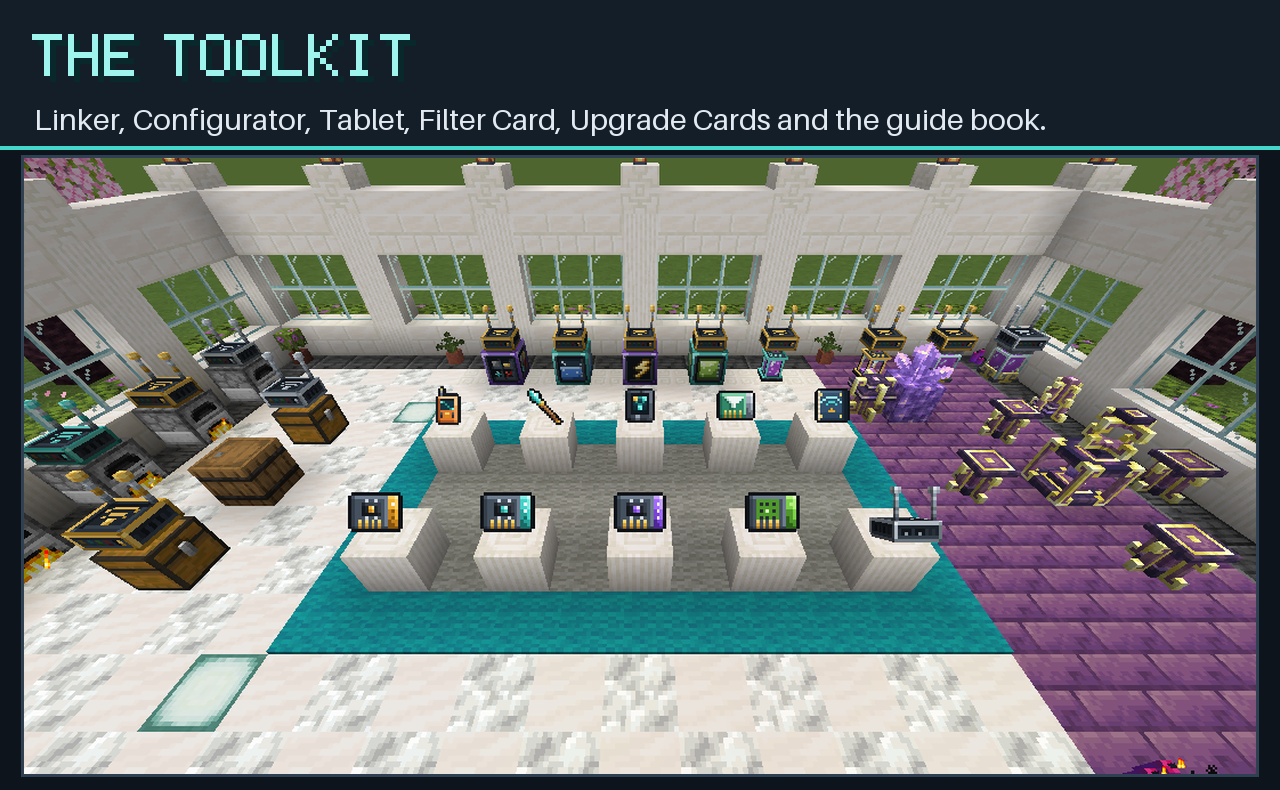
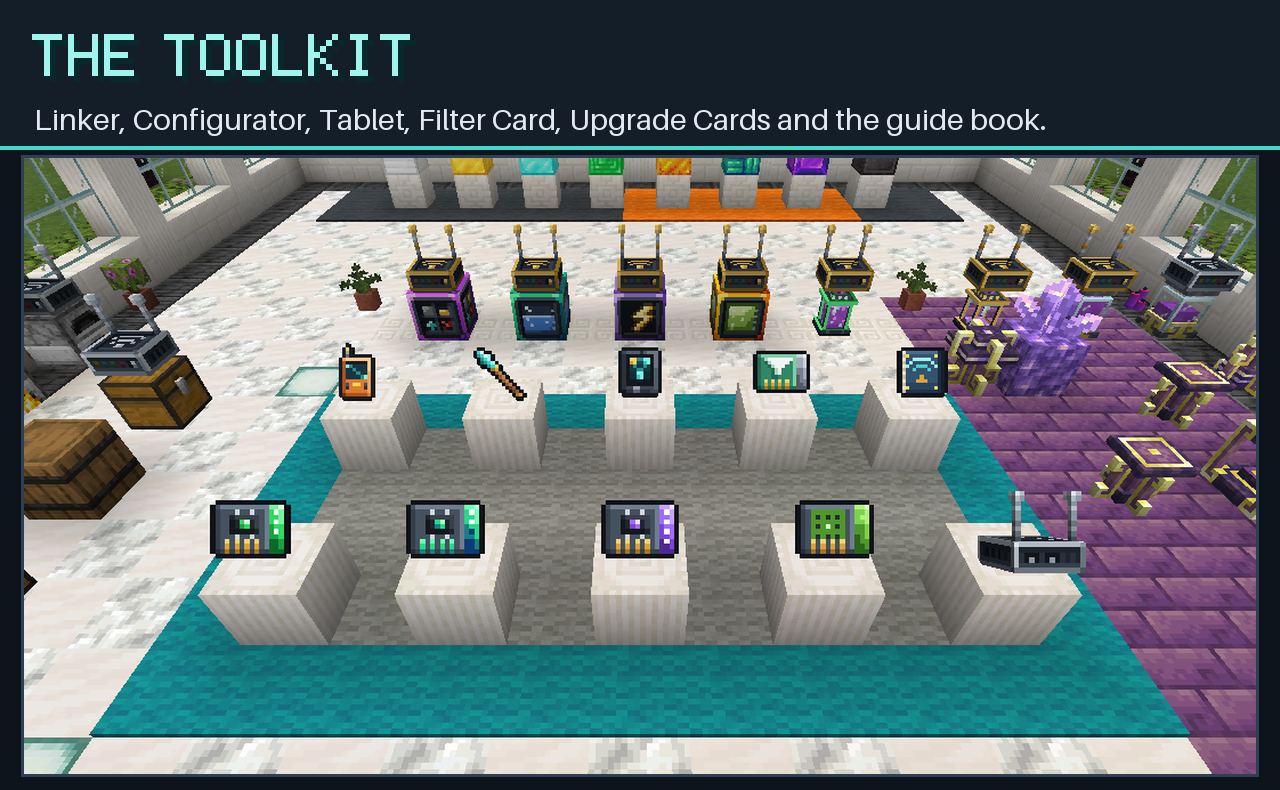
Vitrine do CurseForge com os tiers novos
- Casa maior para o norte, com o salão dos tiers: os oito roteadores
  sobre o bloco do material de cada tier e o cartão flutuando em cima.
- Fornalhas do Básico ao Allthemodium, galeria dos armazenamentos em
  tiers variados (Baú Unobtainium, Tanque Vibranium...), Tanques de
  Source em Elite, Esmeralda, Vibranium e Ultimate, e a vitrine com os
  cartões novos. Sem o Allthemodium, os tiers dele caem para substitutos.
- Imagens refeitas e a nova feature-15-tier-hall; a descrição marca com
  ENVIAR: as que mudaram, até o upload.

diff --git a/src/main/java/io/github/matheusanbs/wirelessautomate/client/DevEndToEnd.java b/src/main/java/io/github/matheusanbs/wirelessautomate/client/DevEndToEnd.java
@@ -1101,16 +1101,23 @@ public final class DevEndToEnd {
     private static BlockPos showSourceJar;
     private static final List<BlockPos> showTanks = new ArrayList<>();
 
-    /** Metade da largura da casa (paredes em x = ±12) e as paredes norte e sul. */
+    /** Metade da largura da casa (paredes em x = ±12) e as paredes norte e sul (o salão dos tiers no fundo). */
     private static final int HOUSE_X = 12;
-    private static final int HOUSE_NORTH = -18;
+    private static final int HOUSE_NORTH = -27;
+    /** Linha do salão dos tiers: os oito roteadores em x = -7..7, cada um sobre o bloco do seu material. */
+    private static final int TIER_HALL_Z = -24;
+
+    /** O tier do Allthemodium se o mod está no cliente de dev, senão o substituto (a vitrine roda sem ele também). */
+    private static RouterTier atm(RouterTier tier, RouterTier fallback) {
+        return tier.loaded() ? tier : fallback;
+    }
     private static final int HOUSE_SOUTH = -2;
 
     /**
      * Fotos da página do CurseForge, numa casa de quartzo sem teto, de dia: a linha de fornalhas
      * (oeste), a galeria dos cinco armazenamentos com fluxo de verdade para um cofre sob o piso
-     * (norte), a vitrine dos itens do mod em pedestais (centro) e o laboratório do Ars Nouveau com
-     * os quatro tiers do Tanque de Source (leste). Fotografa a casa inteira, cada ala e as telas. As
+     * (centro-norte), o salão dos oito tiers (fundo), a vitrine dos itens do mod em pedestais (centro)
+     * e o laboratório do Ars Nouveau com quatro tiers do Tanque de Source (leste). Fotografa a casa inteira, cada ala e as telas. As
      * imagens finais saem de scripts/curseforge/gerar_imagens.py.
      */
     private static List<Step> showcase() {
@@ -1120,7 +1127,7 @@ public final class DevEndToEnd {
                         && showRouters.stream().allMatch(DevEndToEnd::clientSees),
                 () -> showRouters.size() + " roteadores"));
         // A casa inteira, de cima, vista do jardim.
-        list.add(showLook("câmera na casa", 0, 11, 1.5, 0, 0, -10.5, false));
+        list.add(showLook("câmera na casa", 0, 17, 4.5, 0, 0, -14.5, false));
         list.add(wait("chunks e itens", 100));
         list.add(capture("s0-casa"));
         // A linha de fornalhas, da ala oeste.
@@ -1224,6 +1231,10 @@ public final class DevEndToEnd {
                 return null;
             });
         }, () -> Minecraft.getInstance().player.getInventory().isEmpty(), () -> "inventário"));
+        // O salão dos tiers, visto de trás da galeria dos armazenamentos.
+        list.add(showLook("câmera no salão dos tiers", 0, 1.1, -16.9, 0, 2.3, -24, false));
+        list.add(wait("salão dos tiers", 20));
+        list.add(capture("s15-tiers"));
         // A vitrine dos itens, de perto.
         list.add(showLook("câmera na vitrine", 0, 4.2, -5, 0, 0.8, -10.5, false));
         list.add(wait("vitrine", 20));
@@ -1371,6 +1382,7 @@ public final class DevEndToEnd {
             showcaseSmelting(server, level, smelting.id());
             showcaseStorage(server, level, storage.id());
             showcaseDisplay(server);
+            showcaseTiers(server, level, data.create(player.getUUID(), "Tier Hall").id());
             if (StorageKind.SOURCE_TANK.loaded()) {
                 showcaseArcane(server, level, arcane.id());
             }
@@ -1415,7 +1427,7 @@ public final class DevEndToEnd {
             put(level, post[0], 1, post[1], Blocks.POLISHED_DEEPSLATE_WALL.defaultBlockState());
             put(level, post[0], 2, post[1], Blocks.LANTERN.defaultBlockState());
         }
-        for (int[] tree : new int[][] {{-17, -4}, {17, -4}, {-17, -16}, {17, -16}}) {
+        for (int[] tree : new int[][] {{-17, -4}, {17, -4}, {-17, -15}, {17, -15}, {-17, -26}, {17, -26}}) {
             cherryTree(level, tree[0], tree[1]);
         }
         net.minecraft.world.level.block.Block[] flowers = {Blocks.ALLIUM, Blocks.OXEYE_DAISY, Blocks.CORNFLOWER,
@@ -1559,11 +1571,12 @@ public final class DevEndToEnd {
     }
 
     /**
-     * Ala oeste: cinco fornalhas acesas contra a parede, uma por tier (a do meio repete o Elite), com
+     * Ala oeste: cinco fornalhas acesas contra a parede, cada uma com um tier (Básico ao Allthemodium), com
      * filtro de minérios e carvão, o baú de entrada cheio, um barril e o baú de saída.
      */
     private static void showcaseSmelting(MinecraftServer server, ServerLevel level, UUID network) {
-        String[] tiers = {"basic", "advanced", "elite", "ultimate", "elite"};
+        String[] tiers = {"basic", "advanced", "elite", "emerald",
+                atm(RouterTier.ALLTHEMODIUM, RouterTier.ULTIMATE).getSerializedName()};
         Filter ores = new Filter(Filter.ListMode.WHITELIST, false, List.of(
                 new FilterEntry.TagEntry(ResourceLocation.parse("c:ores"), 0),
                 new FilterEntry.ItemEntry(new ItemStack(Items.RAW_IRON), 0),
@@ -1599,14 +1612,15 @@ public final class DevEndToEnd {
     }
 
     /**
-     * Ala norte: os armazenamentos do mod numa galeria (Baú Ultimate com dezenas de tipos e milhões de
+     * Ala norte: os armazenamentos do mod numa galeria, em tiers variados (Baú Unobtainium com dezenas de tipos e milhões de
      * itens, Tanque, Bateria, Tanque Químico com o Mekanism e Tanque de Source com o Ars), cada um com
      * um roteador Avançado que tira para um igual Ultimate sob o piso: o fluxo dura a sessão inteira e
      * dá números de verdade ao Tablet.
      */
     private static void showcaseStorage(MinecraftServer server, ServerLevel level, UUID network) {
         StorageKind[] kinds = StorageKind.values();
-        RouterTier[] tiers = {RouterTier.ULTIMATE, RouterTier.EMERALD, RouterTier.ULTIMATE, RouterTier.EMERALD, RouterTier.EMERALD};
+        RouterTier[] tiers = {atm(RouterTier.UNOBTAINIUM, RouterTier.ULTIMATE), atm(RouterTier.VIBRANIUM, RouterTier.EMERALD),
+                RouterTier.ULTIMATE, atm(RouterTier.ALLTHEMODIUM, RouterTier.EMERALD), RouterTier.EMERALD};
         String[] names = {"Main Storage", "Water Tank", "Base Battery", "Hydrogen", "Source Reserve"};
         for (int i = 0; i < kinds.length; i++) {
             if (!kinds[i].loaded()) {
@@ -1667,7 +1681,9 @@ public final class DevEndToEnd {
                 {"{id:\"wirelessautomate:linker\",count:1}", "{id:\"wirelessautomate:configurator\",count:1}",
                         "{id:\"wirelessautomate:network_tablet\",count:1}", "{id:\"wirelessautomate:filter_card\",count:1}",
                         guide},
-                {"{id:\"wirelessautomate:tier_core_advanced\",count:1}", "{id:\"wirelessautomate:tier_core_elite\",count:1}",
+                {"{id:\"wirelessautomate:tier_core_emerald\",count:1}",
+                        "{id:\"wirelessautomate:tier_core_" + atm(RouterTier.VIBRANIUM, RouterTier.ELITE).getSerializedName()
+                                + "\",count:1}",
                         "{id:\"wirelessautomate:tier_core_ultimate\",count:1}",
                         "{id:\"wirelessautomate:chunk_loader_upgrade\",count:1}", "{id:\"wirelessautomate:router\",count:1}"}};
         int[] zs = {-12, -9};
@@ -1684,9 +1700,50 @@ public final class DevEndToEnd {
     }
 
     /**
+     * Fundo da casa: o salão dos tiers. Os oito roteadores em fila (Básico à esquerda), cada um sobre um
+     * pedestal com o bloco do material do tier (ferro, ouro, diamante, esmeralda, os três metais do
+     * Allthemodium e netherita) e o Cartão de Upgrade flutuando em cima; tapete laranja sob os do ATM.
+     * Sem o Allthemodium, os três do meio ficam de fora.
+     */
+    private static void showcaseTiers(MinecraftServer server, ServerLevel level, UUID network) {
+        String[] materials = {"minecraft:iron_block", "minecraft:gold_block", "minecraft:diamond_block",
+                "minecraft:emerald_block", "allthemodium:allthemodium_block", "allthemodium:vibranium_block",
+                "allthemodium:unobtainium_block", "minecraft:netherite_block"};
+        String[] names = {"Basic", "Advanced", "Elite", "Emerald", "Allthemodium", "Vibranium", "Unobtainium", "Ultimate"};
+        RouterTier[] tiers = RouterTier.values();
+        for (int x = -9; x <= 9; x++) {
+            for (int z = TIER_HALL_Z - 1; z <= TIER_HALL_Z + 1; z++) {
+                boolean atmBand = x >= 0 && x <= 6 && tiers[4].loaded();
+                put(level, x, 0, z, (atmBand ? Blocks.ORANGE_CARPET : Blocks.GRAY_CARPET).defaultBlockState());
+            }
+        }
+        for (int i = 0; i < tiers.length; i++) {
+            if (!tiers[i].loaded()) {
+                continue;
+            }
+            int x = -7 + 2 * i;
+            put(level, x, 0, TIER_HALL_Z, Blocks.CHISELED_QUARTZ_BLOCK.defaultBlockState());
+            command(server, "setblock " + at(x, 1, TIER_HALL_Z) + " " + materials[i]);
+            BlockPos block = showBase.offset(x, 1, TIER_HALL_Z);
+            placeShowRouter(server, level, block, tiers[i].getSerializedName(), names[i] + " Router", network);
+            if (ModItems.TIER_CORES.containsKey(tiers[i])) {
+                command(server, String.format(java.util.Locale.ROOT,
+                        "summon minecraft:item_display %.2f %.2f %.2f {item:{id:\"wirelessautomate:tier_core_%s\",count:1},"
+                                + "billboard:\"center\",brightness:{sky:15,block:15},transformation:{left_rotation:[0f,0f,0f,1f],"
+                                + "right_rotation:[0f,0f,0f,1f],translation:[0f,0f,0f],scale:[0.7f,0.7f,0.7f]}}",
+                        block.getX() + 0.5, block.getY() + 2.5, block.getZ() + 0.5, tiers[i].getSerializedName()));
+            }
+        }
+        // Lanternas no piso nas pontas da fila.
+        for (int x : new int[] {-9, 9}) {
+            put(level, x, -1, TIER_HALL_Z, Blocks.SEA_LANTERN.defaultBlockState());
+        }
+    }
+
+    /**
      * Ala leste, com o Ars: piso de pedra de Source, um Enchanting Apparatus com quatro pedestais,
      * Sourcelinks, uma Source Jar criativa cujo roteador manda a Source sem fio para um Tanque de
-     * Source e uma Source Jar, e os quatro tiers do Tanque de Source (vazio, 25%, 60% e cheio) junto à
+     * Source e uma Source Jar, e quatro tiers do Tanque de Source (vazio, 30%, 60% e cheio) junto à
      * parede sul.
      */
     private static void showcaseArcane(MinecraftServer server, ServerLevel level, UUID network) {
@@ -1720,9 +1777,14 @@ public final class DevEndToEnd {
         router(server, showSourceJar.above()).setMode(ResourceType.SOURCE, Direction.UP, PortMode.EXTRACT);
         router(server, tank.above()).setMode(ResourceType.SOURCE, Direction.UP, PortMode.INSERT);
         router(server, jar.above()).setMode(ResourceType.SOURCE, Direction.UP, PortMode.INSERT);
-        // Quatro tiers, sem roteador, cada um num nível.
-        RouterTier[] tiers = SOURCE_TANK_TIERS;
-        long[] contents = SOURCE_TANK_CONTENTS;
+        // Quatro tiers, sem roteador, cada um num nível: vazio, 30%, 60% e cheio.
+        RouterTier[] tiers = {RouterTier.ELITE, RouterTier.EMERALD, atm(RouterTier.VIBRANIUM, RouterTier.ADVANCED),
+                RouterTier.ULTIMATE};
+        long[] contents = new long[4];
+        for (int i = 1; i < 3; i++) {
+            contents[i] = io.github.matheusanbs.wirelessautomate.Config.storageCapacity(StorageKind.SOURCE_TANK, tiers[i]) * 3 * i / 10;
+        }
+        contents[3] = 3_000_000_000L;
         for (int i = 0; i < 4; i++) {
             // Vistos de dentro (olhando para o sul), o Básico fica à esquerda.
             BlockPos pos = showBase.offset(11 - 2 * i, 0, -5);

diff --git a/scripts/curseforge/gerar_imagens.py b/scripts/curseforge/gerar_imagens.py
@@ -225,7 +225,7 @@ DESTAQUES = [
     # (arquivo, título, subtítulo, captura, recorte[, (captura do detalhe, recorte, largura)]) — as
     # capturas da vitrine têm 1280x800.
     ("feature-0-overview", "Everything wireless",
-     "An ore line, five storage blocks and an Ars Nouveau lab, linked without a single pipe.",
+     "An ore line, five storage blocks, a hall of tiers and an Ars lab, with no pipes.",
      VITRINE / "s0-casa.png", (90, 150, 1190, 770)),
     ("feature-1-network", "Connect machines without pipes",
      "Attach a router to any machine. Routers on the same network trade with each other.",
@@ -239,6 +239,9 @@ DESTAQUES = [
     ("feature-8-rules", "Property rules",
      "Any enchanted item, tools under 50% durability... and your inventory lights up.",
      VITRINE / "s5c-filtro-regra.png", (270, 120, 1010, 680)),
+    ("feature-15-tier-hall", "From iron to Unobtainium",
+     "Every tier on its own material. Allthemodium, Vibranium and Unobtainium with ATM10.",
+     VITRINE / "s15-tiers.png", (0, 200, 1280, 640)),
     ("feature-9-storage", "Storage of its own",
      "Wireless Chest, Tank, Battery, Chemical Tank and Source Tank: billions per operation.",
      VITRINE / "s9-armazenamentos.png", (0, 150, 1280, 610)),

diff --git a/.claude/skills/wa-curseforge-imagens/SKILL.md b/.claude/skills/wa-curseforge-imagens/SKILL.md
@@ -18,6 +18,7 @@ O dono não gosta de imagens montadas a partir de capturas soltas do e2e ("ficou
   - `showcaseStorage`: os cinco armazenamentos, cada um mandando para um cofre sob o piso, para o Tablet mostrar vazão de verdade.
   - `showcaseDisplay`: os itens em `item_display` com `billboard:"center"` e luz cheia, sobre pedestais.
   - `showcaseArcane`: o laboratório do Ars, com jarra criativa, Tanque, Apparatus e os quatro tiers do Tanque de Source.
+  - `showcaseTiers`: o salão dos tiers no fundo da casa, com os oito roteadores sobre o bloco do material de cada tier e o cartão flutuando em cima (tapete laranja sob os do Allthemodium; sem o mod, eles ficam de fora). Os tiers do ATM nas outras alas passam pelo `atm(tier, substituto)`.
   - `showcase()`: o roteiro de câmeras e telas. `showLook(nome, câmera xyz, alvo xyz, interface)` calcula o ângulo a partir da base.
 - `scripts/curseforge/gerar_imagens.py`:
   - a lista `DESTAQUES`, com arquivo, título, subtítulo, captura, recorte e um detalhe opcional no canto;
